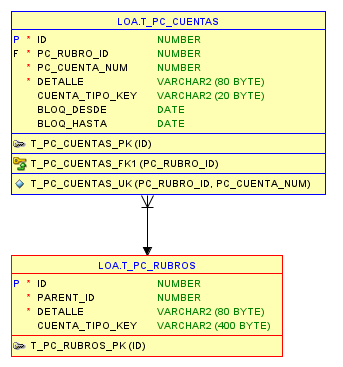
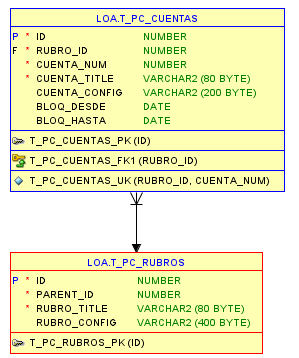
PLAN DE CUENTAS

Changed region(s): [[0.0301, 0.0, 0.9632, 1.0]]

diff --git a/REQ 00 03 Plan de Cuentas/CasoDeUso_PlanDeCuentas.md b/REQ 00 03 Plan de Cuentas/CasoDeUso_PlanDeCuentas.md
@@ -1,0 +1,69 @@
+Precondicion : 
+    Esta Creada la Rama Principal,
+    El Usuario tiene permiso EDITOR_PLAN_DE_CUENTAS
+Usuario:
+    PLAN_DE_CUENTAS_CONFIGURADOR 
+
+1) Flujo Principal Seleccion de Rubro: 
+   1) El usuario selecciona Raiz en el arbol plan de cuentas (numeros 1 a 5)
+      1) El sistema Oculta Informacion de Rubro y lista de cuentas
+      2) El sistema desactiva Botones Agregar Rubro, Editar Rubro, Eliminar Rubro ,Agregar Cuenta
+   2) El usuario selecciona Rama en el arbol plan de cuentas (numeros 11 a 99)
+      1) El sistema Oculta Informacion de Rubro y lista de cuentas
+      2) El sistema habilita Boton Agregar Rubro
+      3) El sistema desactiva Botones Editar Rubro, Eliminar Rubro ,Agregar Cuenta
+   3) El usuario selecciona Rubro en el arbol plan de cuentas
+      1) El sistema muestra Rubro Seleccionado, Configuracion y Lista de cuentas correspondientes
+      2) El sistema habilita Botones Agregar Rubro, Editar Rubro, Eliminar Rubro ,Agregar Cuenta  
+
+2) Flujo Principal: Agregar Rubro
+   1) El usuario presiona boton Agregar Rubro
+   2) el sistema muestra dialogo Agregar Rubro , limpia campos de Titulo y Configuracion
+   3) el sistema muestra Rama seleccionada
+   4) el sistema muestra Proximo Numero correlativo para la rama seleccionada
+   5) el usuario escribe Titulo del Rubro
+   6) el usuario selecciona Configuracion, o deja el campo vacio
+   7) el usuario preciona Boton Agregar
+   8) ejecuta PLAN_DE_CUENTAS_PKG.AGREGAR_RUBRO 
+   9) recarga la pagina 
+
+3) Flujo Principal: Editar Rubro
+   1) El usuario presiona boton Editar Rubro
+   2) el sistema muestra dialogo Editar Rubro
+   3) el sistema muestra Titulo y configuracion actual
+   5) el usuario modifica Titulo del Rubro y/o Configuracion
+   7) el usuario preciona Boton Guadar
+   8) ejecuta PLAN_DE_CUENTAS_PKG.EDITAR_RUBRO 
+   9) recarga la pagina 
+
+4) Flujo Principal: Eliminar Rubro
+   1) El usuario presiona boton Eliminar Rubro
+   2) el sistema muestra Alerta Confirmar Eliminacion
+   8) ejecuta PLAN_DE_CUENTAS_PKG.ELIMINAR_RUBRO 
+   9) recarga la pagina 
+
+5) Flujo Principal: Agregar Cuenta
+   1) El usuario presiona boton Agregar Cuenta
+   2) el sistema muestra dialogo Agregar Cuenta
+   3) el sistema muestra Rubro seleccionada
+   4) el sistema muestra Proximo de cuenta Numero correlativo para el rubro seleccionado
+   5) el usuario escribe Titulo de la Cuenta
+   6) el usuario selecciona Configuracion, o deja el campo vacio
+   7) el usuario preciona Boton Agregar
+   8) ejecuta PLAN_DE_CUENTAS_PKG.AGREGAR_CUENTA 
+   9) recarga la pagina 
+
+6) Flujo Principal: Editar Cuenta
+   1) El usuario presiona boton Editar Cuenta
+   2) el sistema muestra dialogo Editar Cuenta
+   3) el sistema muestra Titulo y configuracion actual
+   5) el usuario modifica Titulo del Rubro y/o Configuracion
+   6) el usuario preciona Boton Guadar
+   7) ejecuta PLAN_DE_CUENTAS_PKG.EDITAR_CUENTA
+   8) recarga la pagina 
+
+7) Flujo Principal: Eliminar Cuenta
+   1) El usuario presiona boton Eliminar Cuenta
+   2) el sistema muestra Alerta Confirmar Eliminacion
+   3) ejecuta PLAN_DE_CUENTAS_PKG.ELIMINAR_CUENTA 
+   4) recarga la pagina 

diff --git a/REQ 00 03 Plan de Cuentas/Plan de Cuentas.md b/REQ 00 03 Plan de Cuentas/Plan de Cuentas.md
@@ -2,17 +2,33 @@
 
 ## Tablas
 - t_pc_rubros   (t_cuenta_rubros)
+    ID	            NUMBER
+    PARENT_ID	    NUMBER
+    RUBRO_TITLE	    VARCHAR2(80 BYTE)
+    RUBRO_CONFIG	VARCHAR2(400 BYTE)
+
 - t_pc_cuentas  (t_cuentas)
+    ID	            NUMBER
+    RUBRO_ID	    NUMBER
+    CUENTA_NUM	    NUMBER
+    CUENTA_TITLE	VARCHAR2(80 BYTE)
+    CUENTA_CONFIG	VARCHAR2(200 BYTE)
+    BLOQ_DESDE	    DATE
+    BLOQ_HASTA	    DATE
+
 
 ![Diagrama Entidad Relacion](DER.png)
   
 ## Package 
+
+
 - PLAN_CUENTAS_PKG
   - RAMA_PRINCIPAL
   - CUENTA_TIPOS
   - CUENTA_TITLE
   - CUENTA_TO_STRING
   - AGREGAR_RUBRO
+  - GUARDAR_RUBRO
   - AGREGAR_CUENTA
   - SIGUIENTE_RUBRO_ID
   - SIGUIENTE_CUENTA_NUM
@@ -22,7 +38,9 @@
 - V_PC_RAMA_PRINCIPAL (CUENTA_RAMA_PRINCIPAL)
 - V_PC_RUBROS         (CUENTA_RUBROS)
 - V_PC_CUENTAS        (CUENTAS - CUENTAS_LOV)
+- V_PC_TREE 
 
+ 
 - CUENTA_TREE
 - CUENTA_TIPOS
 
